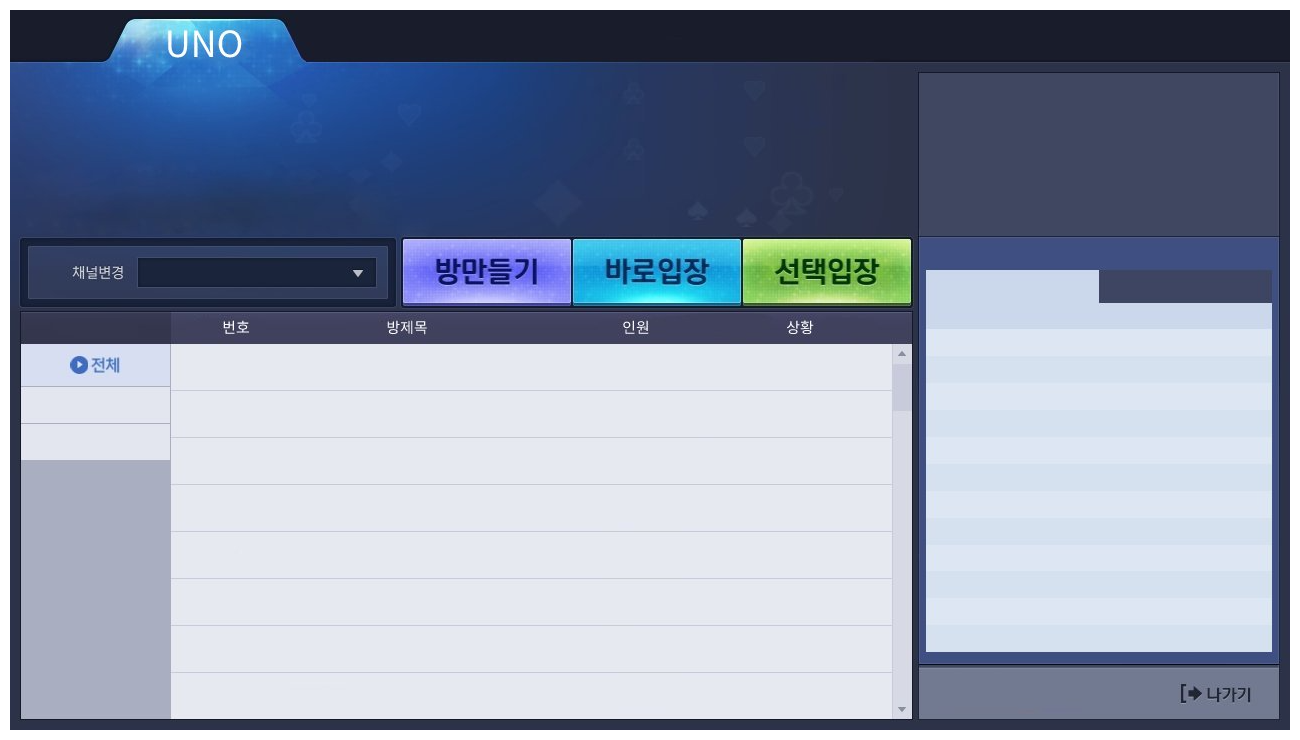
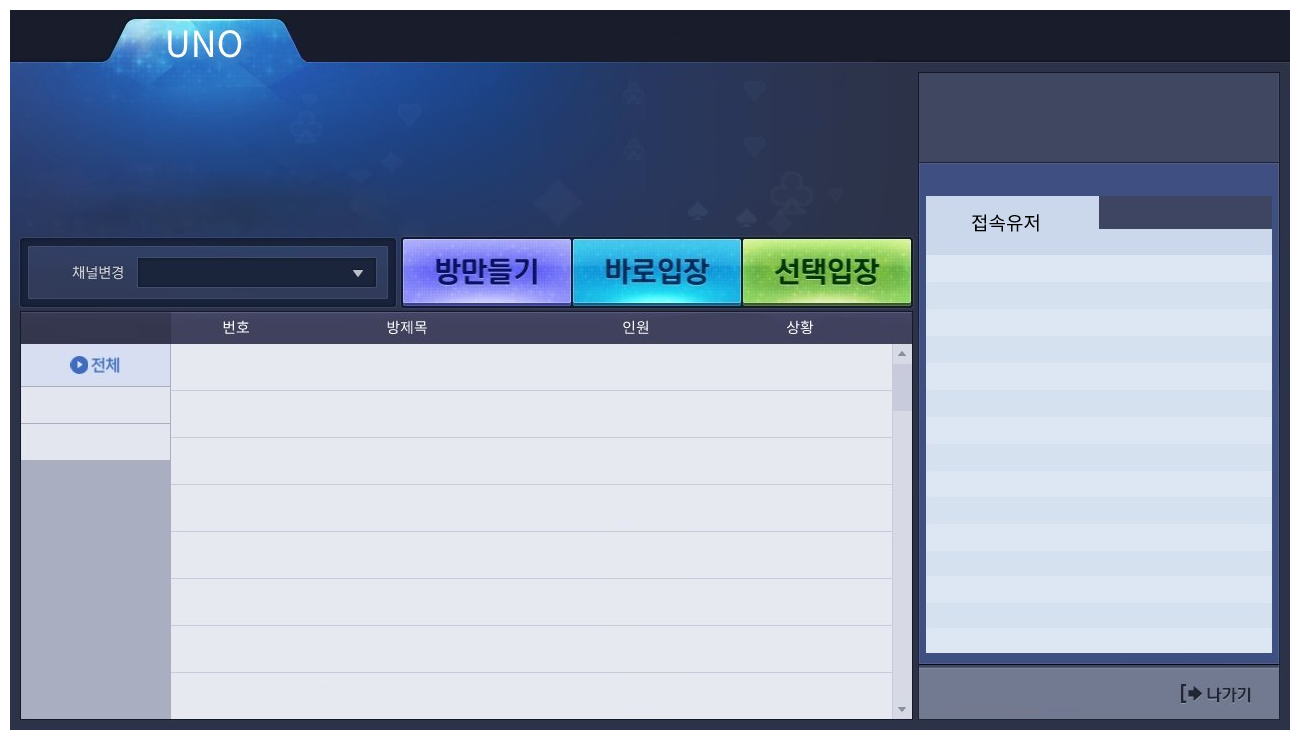
namescene and lobbyscene Updaet

Changed region(s): [[0.7077, 0.2176, 0.9846, 0.4351]]

diff --git a/UNO/ResourceManager.h b/UNO/ResourceManager.h
@@ -28,6 +28,7 @@ public:
 		LOGIN = 0,
 		LOBBY,
 		BUTTON,
+		CHARCTER,
 		MAX
 	};
 
@@ -40,6 +41,8 @@ public:
 		CREATE_BUTTON,
 		QUICK_BUTTON,
 		CHOOSE_BUTTON,
+		EXIT_BUTTON,
+		CHARCTER_ICON,
 		ICON_MAX
 	};
 
@@ -47,11 +50,8 @@ private:
 	bitmapList_t m_bitmap;
 	spriteList_t* m_sprite;
 
-	ID2D1SolidColorBrush* m_pRedBrush;
-	ID2D1SolidColorBrush* m_pYellowBrush;
+	ID2D1SolidColorBrush* m_pWhiteBrush;
 	ID2D1SolidColorBrush* m_pBlackBrush;
-
-	IDWriteTextFormat* m_pWriteTextFormat;
 public:
 	bool Initialize();
 	void Cleanup();
@@ -61,9 +61,7 @@ public:
 
 	ID2D1Bitmap* GetBitmap(eBitmap _index) { return m_bitmap[_index]; }
 	spriteList_t* GetSprite() { return m_sprite; }
-	IDWriteTextFormat** GetWriteFormat() { return &m_pWriteTextFormat; }
-	ID2D1SolidColorBrush** GetRedBrush() { return &m_pRedBrush; }
-	ID2D1SolidColorBrush** GetYellowBrush() { return &m_pYellowBrush; }
+	ID2D1SolidColorBrush** GetWhiteBrush() { return &m_pWhiteBrush; }
 	ID2D1SolidColorBrush** GetBlackBrush() { return &m_pBlackBrush; }
 
 public:

diff --git a/UNO/information.cpp b/UNO/information.cpp
@@ -1,0 +1,43 @@
+#include "information.h"
+
+CInformation* CInformation::pInstance = nullptr;
+
+CInformation* CInformation::GetInstance()
+{
+	if (pInstance == nullptr) { pInstance = new CInformation(); }
+	return pInstance;
+}
+
+void CInformation::DeleteInstance()
+{
+	if (pInstance) { delete pInstance; pInstance = nullptr; }
+}
+
+CInformation::CInformation() : m_pMyName(nullptr)
+{
+	
+}
+
+CInformation::~CInformation()
+{
+	Cleanup();
+}
+
+bool CInformation::Initalize()
+{
+	m_pMyName = new WCHAR[255];
+	memset(m_pMyName, 0, 255);
+	if (m_pMyName == nullptr) return false;
+	return true;
+}
+
+void CInformation::Cleanup()
+{
+	if (m_pMyName) { delete[] m_pMyName; m_pMyName = nullptr; }
+}
+
+void CInformation::SetName(const WCHAR* _name)
+{
+	int len = wcslen(_name) * sizeof(WCHAR);
+	memcpy(m_pMyName, _name, len);
+}

diff --git a/UNO/LobbyScene.h b/UNO/LobbyScene.h
@@ -12,25 +12,30 @@ public:
 	typedef CResourceManager::eBitmap bitmap_t;
 	typedef std::list<CRoom*> RoomList;
 	//typedef std::list<CUserList*> UserList;
-	enum TARGET
-	{
-		BACKGROUND,
-		OK,
-		MAX
-	};
+
 private:
+	ID2D1SolidColorBrush* m_pBrush;
+	IDWriteTextFormat* m_pWriteTextFormat;
+
 	CObject* m_pBackGround;
+	CObject* m_pCharacter;
 
 	CButton* m_pCreateButton;
 	CButton* m_pQuickButton;
 	CButton* m_pChooseButton;
+	CButton* m_pExitButton;
 
 	D2D1_RECT_F m_backGroundRect;
 	D2D1_RECT_F m_createButtonRect;
 	D2D1_RECT_F m_quickButtonRect;
 	D2D1_RECT_F m_chooseButtonRect;
+	D2D1_RECT_F m_exitButtonRect;
+	D2D1_RECT_F m_peopleIconRect;
 
 	RoomList m_roomList;
+
+	WCHAR* m_pName;
+	int m_num;
 public:
 	CLobbyScene();
 	~CLobbyScene();

diff --git a/UNO/app.cpp b/UNO/app.cpp
@@ -4,6 +4,7 @@
 #include "SceneManager.h"
 #include "ResourceManager.h"
 #include "Input.h"
+#include "information.h"
 #include "Timer.h"
 #define FRAME 15
 
@@ -23,6 +24,7 @@ bool CApp::Initialize()
 	//if (!CClient::GetInstance()->Initialize("14.54.160.37", 30002))return false;
 	if (!CDirect::GetInstance()->Initialize()) return false;
 	if (!CResourceManager::GetInstance()->Initialize()) return false;
+	if (!CInformation::GetInstance()->Initalize()) return false;
 	if (!CSceneManager::GetInstance()->Initialize()) return false;
 	if (!CInput::GetInstance()) return false;
 	if (!m_pGameWnd->Initialize()) return false;

diff --git a/UNO/Button.cpp b/UNO/Button.cpp
@@ -20,14 +20,16 @@ void CButton::Render(ID2D1HwndRenderTarget* _pRT, float _alpha)
 	CObject::Render(_pRT, m_OnButton, _alpha);
 }
 
-void CButton::OnButton(POINT _mouse)
+bool CButton::OnButton(POINT _mouse)
 {
 	if (_mouse.x >= m_target.left && _mouse.x <= m_target.right &&
 		_mouse.y >= m_target.top && _mouse.y <= m_target.bottom)
 	{
 		m_OnButton = 1;
+		return true;
 	}
 	else m_OnButton = 0;
+	return false;
 }
 
 void CButton::OnButtonDown()

diff --git a/UNO/information.h b/UNO/information.h
@@ -1,0 +1,22 @@
+#pragma once
+#include <windows.h>
+
+class CInformation
+{
+private:
+	static CInformation* pInstance;
+	CInformation();
+	~CInformation();
+private:
+	WCHAR* m_pMyName;
+
+public:
+	bool Initalize();
+	void Cleanup();
+
+	void SetName(const WCHAR* _name);
+	WCHAR* GetName() { return m_pMyName; }
+public:
+	static CInformation* GetInstance();
+	static void DeleteInstance();
+};

diff --git a/UNO/NameScene.h b/UNO/NameScene.h
@@ -23,9 +23,7 @@ public:
 
 private:
 	ID2D1SolidColorBrush* m_pBrush;
-	D2D1_POINT_2F m_rectangle;
-	D2D1_RECT_F m_barRect;
-	D2D1_RECT_F m_okRect;
+	IDWriteTextFormat* m_pWriteTextFormat;
 
 	CObject* m_pBackGround;
 	CObject* m_pLogin;

diff --git a/UNO/Button.h b/UNO/Button.h
@@ -13,7 +13,7 @@ public:
 
 	void Render(ID2D1HwndRenderTarget* _pRT, float _alpha);
 
-	void OnButton(POINT _mouse);
+	bool OnButton(POINT _mouse);
 	void OnButtonDown();
 	void OnButtonUp();
 private:
